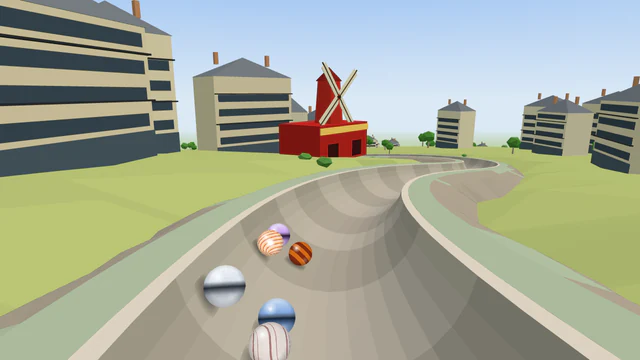
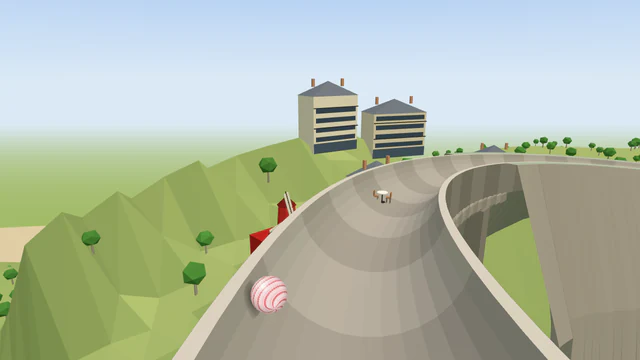
Paris Eiffel Tower Run: its own layout; its records start again
Until now physically the same track as Baqueira-Beret Run and Bobsleigh Run.
Its classic start down Montmartre kept (one of the World Tour's two), then the
cobbles of the Rue Lepic, a sweep past the Moulin Rouge, a spiral right round
the Arc de Triomphe on the Étoile (the big feature and new signature), the
Champs-Élysées, the Concorde hairpin, past the Louvre, down to the Seine,
S-bends past Notre-Dame and on to the Eiffel Tower. Full report 50/50; Easy
32. Data updates 2027-07-25. Off the known failures.

Claude-Session: https://claude.ai/code/session_011vSSkqNPL9kncfzrwF15wS

diff --git a/src/tracks/paris-eiffel-tower-run.js b/src/tracks/paris-eiffel-tower-run.js
@@ -4,8 +4,8 @@
 // to the Eiffel Tower. Moses's design ("New Track Designs", 3), built with the track
 // kit. Daylight only: the tower's evening light show is protected, so no night lighting.
 const {
-  track, plunge, straight, sBends, sweep, spiral, hairpin, splitter, runIn,
-  pileUp, curtain, parked, slalom, boost, brake,
+  track, plunge, straight, sBends, sweep, spiral, hairpin, runIn,
+  pileUp, curtain, parked, slalom, brake, peg,
 } = require('../trackKit');
 
 module.exports = track({
@@ -17,10 +17,11 @@ module.exports = track({
   biome: 'city',
   lighting: 'day',
   variants: ['rain', 'fog'], // (daylight only)
-  signature: 'Arc de Triomphe splitter',
+  signature: 'Round the Étoile',
   tvCameras: [
-    { section: 'Arc de Triomphe splitter', at: 0.8, side: 'right', distance: 6, height: 5 },
-    { section: 'Notre-Dame spiral', at: 0.6, side: 'left', distance: 6, height: 8 },
+    // (At the end of the turn, looking back round the Arc de Triomphe at the field coming round the Étoile.)
+    { section: 'Round the Étoile', at: 0.85, side: 'left', distance: 6, height: 8 },
+    { section: 'Île de la Cité S-bends', at: 0.5, side: 'right', distance: 6, height: 8 },
   ],
   billboardFrame: 'column',
   // The gate on the cobbled square before Sacré-Cœur, the roofs of Paris below; the finish
@@ -28,8 +29,9 @@ module.exports = track({
   start: { landmark: 'sacre-coeur', scenery: ['haussmann'], gate: 'stalls', shots: { countdown: 'chase', launch: 'low-chase' } },
   finish: { landmark: 'eiffel-tower', scenery: ['plane-trees'] },
   designChanges: [
-    'Street lamps down the Montmartre plunge after the café tables, glanced off like slalom gates: with café tables alone the strongest marbles win too often and the field reaches the splitter sorted by strength.',
-    'A 50 m straight, "Run to the Concorde", before the hairpin: the recipe needs a braking zone before the one sharp bend; its first 15 m are rough cobbles (a braking stretch), which bunches the field so it overtakes enough.',
+    'Its own layout (Moses, 15 Nov 2026: World Tour re-layouts): down Montmartre past the café tables and street lamps, down the cobbles of the Rue Lepic, a sweep past the Moulin Rouge, right round the Arc de Triomphe on the Étoile (the big feature: a banked spiral, as the traffic circles it), down the Champs-Élysées, the Concorde hairpin round the obelisk, past the Louvre, down to the Seine, S-bends past Notre-Dame and on to the Eiffel Tower.',
+    'Street lamps down the Montmartre plunge after the café tables, glanced off like slalom gates: with café tables alone the strongest marbles win too often.',
+    'A straight before the hairpin (the Champs-Élysées): the recipe needs a braking zone before the one sharp bend; a stretch of rough cobbles bunches the field.',
   ],
   sections: [
     {
@@ -37,28 +39,40 @@ module.exports = track({
       obstacles: [pileUp({ costume: 'cafe-table', at: 0.42 }), slalom({ costume: 'street-lamp', from: 0.55, to: 0.97, count: 6, loss: 0.3 })],
       figures: ['painter', 'painter'], scenery: ['haussmann'],
     },
+    { name: 'Rue Lepic', shape: straight(45, { grade: 0.14 }), features: [brake({ at: 0.1, length: 15 })], scenery: ['haussmann'], billboards: 1 },
     {
-      name: 'Moulin Rouge S-bends', shape: sBends({ first: 'left', radius: 75, degrees: 80, grade: 0.13 }),
-      landmarks: [{ name: 'moulin-rouge', at: 0.5, side: 'right', distance: 16 }], scenery: ['haussmann'], billboards: 1,
+      name: 'Moulin Rouge sweep', shape: sweep({ side: 'left', radius: 75, degrees: 110, grade: 0.13 }),
+      landmarks: [{ name: 'moulin-rouge', at: 0.5, side: 'right', distance: 20 }], scenery: ['haussmann'],
+      obstacles: [peg({ costume: 'cafe-table', at: 0.3, line: 'right' }), peg({ costume: 'cafe-table', at: 0.7, line: 'left' })],
     },
+    { name: 'To the Étoile', shape: straight(35, { grade: 0.13 }), scenery: ['haussmann'] },
+    // The track's big feature: a banked spiral right round the Arc de Triomphe, as the traffic circles the Étoile.
+    { name: 'Round the Étoile', shape: spiral({ side: 'right', radius: 45, grade: 0.14 }), around: 'arc-de-triomphe', scenery: ['plane-trees'] },
     {
-      name: 'Arc de Triomphe splitter', shape: splitter({ side: 'left', balance: { tipOffset: -0.8, left: { drag: 1.36, scrub: 1.36 }, right: { drag: 0.42, scrub: 0.72 } } }),
-      around: 'arc-de-triomphe', scenery: ['plane-trees'],
+      name: 'Champs-Élysées', shape: straight(80, { grade: 0.14 }), billboards: 2, scenery: ['plane-trees', 'haussmann'],
+      features: [brake({ at: 0.1, length: 15 })],
+      landmarks: [{ name: 'fountains', at: 0.75, side: 'left', distance: 10 }],
     },
-    { name: 'Champs-Élysées sweep', shape: sweep({ side: 'right', radius: 80, degrees: 160, grade: 0.08 }), features: [boost({ at: 0.08 })], billboards: 2, scenery: ['plane-trees', 'haussmann'] },
-    // (Not in the design: the recipe's braking zone needs a straight before the one sharp bend.)
-    { name: 'Run to the Concorde', shape: straight(50, { grade: 0.13 }), features: [brake({ at: 0.25, length: 15 })], billboards: 1, landmarks: [{ name: 'fountains', at: 0.6, side: 'left', distance: 10 }], scenery: ['plane-trees'] },
     { name: 'Concorde hairpin', shape: hairpin({ side: 'left' }), around: 'obelisk' },
     {
-      name: 'Louvre run', shape: straight(110, { grade: 0.18 }),
-      obstacles: [parked({ costume: 'vespa', at: 0.45, side: 'right', length: 8 })],
+      name: 'Louvre run', shape: straight(80, { grade: 0.15 }),
+      obstacles: [parked({ costume: 'vespa', at: 0.35, side: 'right', length: 8 }), slalom({ costume: 'street-lamp', from: 0.6, to: 0.92, count: 3, loss: 0.3 })],
       landmarks: [{ name: 'louvre-pyramid', at: 0.5, side: 'left', distance: 14 }],
     },
-    { name: 'Notre-Dame spiral', shape: spiral({ side: 'right', radius: 45, grade: 0.18 }), around: 'notre-dame', scenery: ['plane-trees'] },
     {
-      name: 'Seine plunge', shape: plunge(100, { grade: 0.3, from: 0.18 }),
+      name: 'Seine plunge', shape: plunge(70, { grade: 0.3, from: 0.16 }),
       obstacles: [curtain({ costume: 'easel', at: 0.45, side: 'left' })], figures: ['pigeon', 'pigeon', 'pigeon'],
       landmarks: [{ name: 'seine', at: 0.5, side: 'right', distance: 22 }, { name: 'bookstalls', at: 0.3, side: 'left', distance: 6 }],
+    },
+    {
+      name: 'Île de la Cité S-bends', shape: sBends({ first: 'right', radius: 70, degrees: 80, grade: 0.14 }), scenery: ['plane-trees'],
+      landmarks: [{ name: 'notre-dame', at: 0.5, side: 'left', distance: 30 }],
+      obstacles: [peg({ costume: 'street-lamp', at: 0.3, line: 'left' }), peg({ costume: 'street-lamp', at: 0.7, line: 'right' })],
+    },
+    {
+      name: 'Champ de Mars', shape: straight(70, { grade: 0.14 }), billboards: 1, scenery: ['plane-trees'],
+      features: [brake({ at: 0.05, length: 10, drag: 0.02 })],
+      obstacles: [slalom({ costume: 'street-lamp', from: 0.45, to: 0.88, count: 3, loss: 0.35 })],
     },
     { name: 'Finish', shape: runIn(), scenery: ['plane-trees'] },
   ],

diff --git a/test/samenessAllTracks.test.js b/test/samenessAllTracks.test.js
@@ -36,7 +36,6 @@ const KNOWN = {
 
   'portes-du-soleil-run': ['layout'],
 
-  'paris-eiffel-tower-run': ['layout'],
   'amazon-water-run': ['layout'],
   // Grand Prix (one design: Dubai's; Stockholm, Lagos, Istanbul, Sydney, Nairobi, Delhi, Sahara and Wyrmwood Hollow have their own since 6–7 Nov 2026).
   'dubai-marble-grand-prix': ['opening', 'opening-kind', 'layout'],

diff --git a/docs/06-decisions.md b/docs/06-decisions.md
@@ -4,7 +4,7 @@
 
 | Date | Decision | Why |
 |---|---|---|
-| 2026-11-15 | **World Tour re-layouts** (Moses, 21:20: every World Tour pack track still on the sameness test's known failures gets its own layout and opening, with a signature feature from the real place, as the Grand Prix re-layouts; then seven new World Tour tracks to fill the pack to 20). Each keeps its name, slug and look; a `--relayout` data update starts its records again (`tracks.records_since`), and a `<slug>-to-world-tour` update sets its new wildness (the pack script now takes a kit track with no series marker as World Tour, as the server does). Done: **Åre Run** (Wild 43, was Easy 29: a rumble start down the summit moguls, the hairpin, a sweep under the gondola, down the World Championship slope as the big feature, the funicular spiral; `2027-07-18-…`), **Greenland Expedition** (Wild 44: a snowdrift start, the sand-trap opening, past the sled dogs, the ice cave as the big feature, a long steep drop inside the glacier; `2027-07-19-…`), **Park City Run** (Wild 37: a rolling start from the lift station, down the old silver mine's shaft as the big feature; `2027-07-20-…`), **Dubai Twister** (Wild 39: a sand-trap start through the dunes, up a red dune and down its face, the Twister spiral round the twisting tower as the big feature; the falcon no longer swoops at the hairpin, as knocked marbles fell too far behind; `2027-07-21-…`), **Rio Jungle Rumble** (Extreme 47: a rumble start down the jungle path, the Selarón Steps, the turn right round Guanabara Bay under the cable car as the big feature; `2027-07-22-…`), **China Wall Twister** (Wild 40: a tunnel-launch start through a gate in the Wall, along the Wall and down its steps, the dragon drop as the big feature; `2027-07-23-…`), **Baqueira-Beret Run** (Wild 45: a rolling start and a wide turn across the open bowl, the bell-tower spiral, the Escornacrabes couloir as the big feature; `2027-07-24-…`). Paris Eiffel Tower Run and Portes du Soleil Run keep the two classic openings the World Tour allows. (A pile-up at the gate spreads the field by about 5 s before the first bend; the re-laid tracks without one pass the report's first-to-last gap more easily.) | The old World Tour tracks were built from one design and raced alike (several pairs identical, nine with the same opening). |
+| 2026-11-15 | **World Tour re-layouts** (Moses, 21:20: every World Tour pack track still on the sameness test's known failures gets its own layout and opening, with a signature feature from the real place, as the Grand Prix re-layouts; then seven new World Tour tracks to fill the pack to 20). Each keeps its name, slug and look; a `--relayout` data update starts its records again (`tracks.records_since`), and a `<slug>-to-world-tour` update sets its new wildness (the pack script now takes a kit track with no series marker as World Tour, as the server does). Done: **Åre Run** (Wild 43, was Easy 29: a rumble start down the summit moguls, the hairpin, a sweep under the gondola, down the World Championship slope as the big feature, the funicular spiral; `2027-07-18-…`), **Greenland Expedition** (Wild 44: a snowdrift start, the sand-trap opening, past the sled dogs, the ice cave as the big feature, a long steep drop inside the glacier; `2027-07-19-…`), **Park City Run** (Wild 37: a rolling start from the lift station, down the old silver mine's shaft as the big feature; `2027-07-20-…`), **Dubai Twister** (Wild 39: a sand-trap start through the dunes, up a red dune and down its face, the Twister spiral round the twisting tower as the big feature; the falcon no longer swoops at the hairpin, as knocked marbles fell too far behind; `2027-07-21-…`), **Rio Jungle Rumble** (Extreme 47: a rumble start down the jungle path, the Selarón Steps, the turn right round Guanabara Bay under the cable car as the big feature; `2027-07-22-…`), **China Wall Twister** (Wild 40: a tunnel-launch start through a gate in the Wall, along the Wall and down its steps, the dragon drop as the big feature; `2027-07-23-…`), **Baqueira-Beret Run** (Wild 45: a rolling start and a wide turn across the open bowl, the bell-tower spiral, the Escornacrabes couloir as the big feature; `2027-07-24-…`), **Paris Eiffel Tower Run** (Easy 32: its classic start kept, down the Rue Lepic's cobbles, a spiral right round the Arc de Triomphe on the Étoile as the big feature; `2027-07-25-…`). Paris Eiffel Tower Run and Portes du Soleil Run keep the two classic openings the World Tour allows. (A pile-up at the gate spreads the field by about 5 s before the first bend; the re-laid tracks without one pass the report's first-to-last gap more easily.) | The old World Tour tracks were built from one design and raced alike (several pairs identical, nine with the same opening). |
 | 2026-11-15 | **Seven more Blocks 1 tracks: the Blocks 1 pack filled to 20** (Moses, 13:38: the game-world look, our own voxel worlds with retro-game touches, never another game's names, creatures, textures or falling pieces; same rules as the Canyons and Peaks; 2 Easy, 3 Wild, 2 Extreme). Built, each pushed switched off in the Blocks 1 pack, not free: **Mushroom Grove** (Easy 24: a drop off a giant mushroom's cap), **Sunken Ruins** (Easy 17: a banked turn round a sunken dome), **Clockwork Works** (Wild 39: a splitter round a giant gear), **Crystal Grotto** (Wild 44: a spiral round a crystal spire), **Jungle Ruins** (Wild 45: a waterfall drop through falling water), **Moon Base** (Extreme 60: a 66 m drop over a crater's rim), **Neon Grid** (Extreme 57: a loop over the glowing grid, 69 overtakes); data updates `2027-07-11-…` to `2027-07-17-…`; seven new worlds, `kitLandmarksBlockWorlds.js` and three Blocks 1 start types (`portal-gate`, `block-pyramid`, `gear-tower`). On phones a Block Series cube pillar is now at most 8 cubes (each taller), as Crystal Grotto's tall pillars went over the triangle budget; looks only. Status: project doc `claude/blocks-1-seven-more-status.md`. Waiting for Moses's deploy (with the Canyons and Peaks), then his look at each preview before switching on. | With them the Blocks 1 pack has 20 besides the free Spawn Point and can go on sale. |
 | 2026-11-15 | **Six more Peaks tracks: the Peaks pack filled to 20** (Moses, 09:45: same rules as the six Canyons, and 65+ overtakes on a loop track; 2 Easy, 2 Wild, 2 Extreme; six famous mountains not yet in the series, each with two signature features, unlike the World Tour's alpine resorts). Built, each pushed switched off in the Peaks pack, not free: **Half Dome Granite Slabs** (Easy 31: a drop down the granite slabs below the face), **Huayna Picchu Terraces** (Extreme 48: a splitter round a terraced hill), **Huashan Plank Walk** (Easy 20: a dramatic banked turn round the plank walk's cliff), **Eiger North Face** (Wild 43: a banked spiral round a window pillar), **Etna Valle del Bove** (Extreme 50: a drop into the Valle del Bove), **Tianmen Heaven's Gate** (Wild 41: a loop under the great arch, 69 overtakes); data updates `2027-07-05-…` to `2027-07-10-…`; six palettes and `kitLandmarksPeak2.js`; the pack script knows Peaks. Huayna came out Extreme and Huashan Easy, Etna Extreme and Tianmen Wild (planned otherwise); the mix stays 2/2/2. Status: project doc `claude/peaks-six-more-status.md`. Waiting for Moses's deploy (with the Canyons), then his look at each preview before switching on. | With them the Peaks pack has 20 besides the free Everest Icefall Run and can go on sale. |
 | 2026-11-15 | **A coaster track can have a loop** (Kings Canyon Lost City, the first): over the loop's span the coaster's rails, spine, ties and towers stop (3 m either side), as the loop draws its own track and steel along its own path; before, they ran along the ground under it, 64 m with no rim under the rails, and blocked the follow camera. The rails check (`railGaps`) now finds each rail line's first point along the whole track (by height too), so lines that start after a loop are checked where they are. Looks only: race results unchanged. | A loop in a canyon is the Canyons series' loop; the coaster kit had never met one. |

diff --git a/docs/README.md b/docs/README.md
@@ -8,7 +8,7 @@
 
 **Where it stands:**
 - **Website:** live at marblespins.com (Vercel builds every push to `Main`; production is at `548aeb8`, 15 Nov). Soft start (social media, a daily set of videos, 10–20 invited test pilots) since the week of 26 Oct. **Official launch 1 Dec 2026**, with the Holiday Season, the season pass and the apps. GA4 on since 31 Oct (after cookie consent); the Meta Pixel off.
-- **Tracks: 152 live in ten series** (World Tour, Grand Prix, Coasters, Canyons, Blocks, Track and Field, Rivers, Peaks, Pinball, Arcade), since the 9 motorsport Grand Prix tracks were switched on on 13 Nov; 191 in the database. **Switched off, waiting for Moses:** five more Rivers tracks (on the server since 13 Nov: Yukon Five Finger Run, Arno Old Bridge Run, Chao Phraya Dawn Spiral, Hudson Highlands Run, Iguazú Devil's Throat) and six more Canyons tracks (on Main, **waiting for the server deploy**: Bryce Hoodoo Run, Blyde Potholes Spiral, Taroko Marble Gorge, Samaria Iron Gates, Kings Canyon Lost City, the first coaster track with a loop, and Sumidero Christmas Falls; data updates `2027-06-29-…` to `2027-07-04-…`) and six more Peaks tracks (on Main, **waiting for the same deploy**: Half Dome Granite Slabs, Huayna Picchu Terraces, Huashan Plank Walk, Eiger North Face, Etna Valle del Bove, Tianmen Heaven's Gate; data updates `2027-07-05-…` to `2027-07-10-…`) and seven more Blocks 1 tracks (on Main, **waiting for the same deploy**: Mushroom Grove, Sunken Ruins, Clockwork Works, Crystal Grotto, Jungle Ruins, Moon Base, Neon Grid; data updates `2027-07-11-…` to `2027-07-17-…`); World Tour re-layouts (on Main, **waiting for the same deploy**; their records start again): Åre Run, Greenland Expedition, Park City Run, Dubai Twister, Rio Jungle Rumble, China Wall Twister, Baqueira-Beret Run (`2027-07-18-…` to `2027-07-24-…`). Moses deploys Canyons, Peaks, Blocks 1 and the World Tour work together. The 31 holiday tracks are switched on but hidden and closed until 1 Dec 00:00 Swedish time (183 live then).
+- **Tracks: 152 live in ten series** (World Tour, Grand Prix, Coasters, Canyons, Blocks, Track and Field, Rivers, Peaks, Pinball, Arcade), since the 9 motorsport Grand Prix tracks were switched on on 13 Nov; 191 in the database. **Switched off, waiting for Moses:** five more Rivers tracks (on the server since 13 Nov: Yukon Five Finger Run, Arno Old Bridge Run, Chao Phraya Dawn Spiral, Hudson Highlands Run, Iguazú Devil's Throat) and six more Canyons tracks (on Main, **waiting for the server deploy**: Bryce Hoodoo Run, Blyde Potholes Spiral, Taroko Marble Gorge, Samaria Iron Gates, Kings Canyon Lost City, the first coaster track with a loop, and Sumidero Christmas Falls; data updates `2027-06-29-…` to `2027-07-04-…`) and six more Peaks tracks (on Main, **waiting for the same deploy**: Half Dome Granite Slabs, Huayna Picchu Terraces, Huashan Plank Walk, Eiger North Face, Etna Valle del Bove, Tianmen Heaven's Gate; data updates `2027-07-05-…` to `2027-07-10-…`) and seven more Blocks 1 tracks (on Main, **waiting for the same deploy**: Mushroom Grove, Sunken Ruins, Clockwork Works, Crystal Grotto, Jungle Ruins, Moon Base, Neon Grid; data updates `2027-07-11-…` to `2027-07-17-…`); World Tour re-layouts (on Main, **waiting for the same deploy**; their records start again): Åre Run, Greenland Expedition, Park City Run, Dubai Twister, Rio Jungle Rumble, China Wall Twister, Baqueira-Beret Run, Paris Eiffel Tower Run (`2027-07-18-…` to `2027-07-25-…`). Moses deploys Canyons, Peaks, Blocks 1 and the World Tour work together. The 31 holiday tracks are switched on but hidden and closed until 1 Dec 00:00 Swedish time (183 live then).
 - **Server:** last deployed **13 Nov 2026, ~23:00** (code fingerprint `7abad7e4c43d`, Main `7a3342d`; 57 tables, 527 columns): the Stripe webhook's refusals logged and its readiness on `/health`. The week's other deploys (12 Nov `b5cc113debdb` and `bc1bd7ff096f`; 13 Nov ~14:20 `8d7a15a7631e`, ~18:30 `6be622039502`, ~21:45 `c25a2aa05c5b`) brought wildness and track packs, pack sales, the free set of 15, the motorsport Grand Prix tracks, where players come from and the five Rivers. Main is at fingerprint `5636207a9263`: the next deploy brings only the six Canyons tracks.
 - **Wildness and track packs:** every live track is Easy / Wild / Extreme (from 1,000 report races; 68 / 61 / 23 of the 152), shown as a badge and a picker filter. 11 packs (one per series; Pinball and Arcade separate; Blocks 1 and 2), **$7.99, or 1,990 coins + $5.99**, on the website (Stripe, test mode), Google Play and the App Store. **Free set: 15 tracks**, one or two per series. **Complete packs** (20 live besides the free ones): Blocks 2 and Grand Prix; Rivers and Canyons have 20 once their new tracks are on. **Locking and selling are off** (`TRACK_PACKS`); only complete packs lock when it is on. The website keeps saying every track is free until `PACKS_LIVE` (`client/src/shared/packWording.js`). First end-to-end test purchase (Grand Prix pack, Stripe test mode) worked on 13 Nov. Still to do: the store products, the pack terms of sale (draft at `/preview/legal-packs`), Moses's go.
 - **Apps:** iPhone and Android (Capacitor). **Android 1.0.0 (5) in Play internal testing, tested by Moses on 13 Nov:** hit and bump sounds work, the ceremony song stops (the slow-phone and sound fixes of 11–12 Nov confirmed). `client/app-version.json` and the iPhone project at 1.0.0 (5); the next build is 6 (`npm run app:version -- build`). **Store submission planned for 16–20 Nov.**
